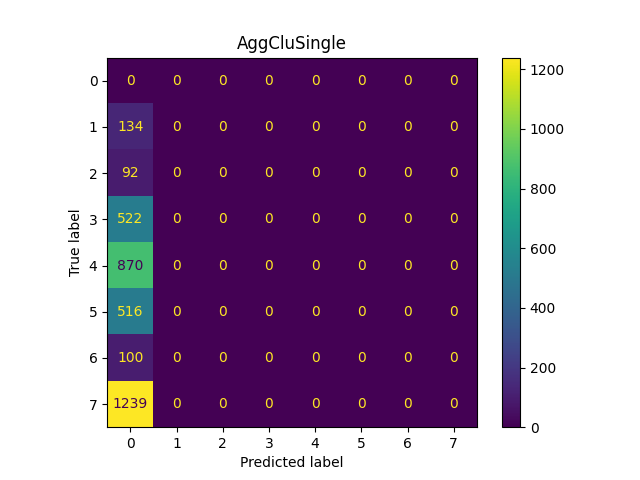
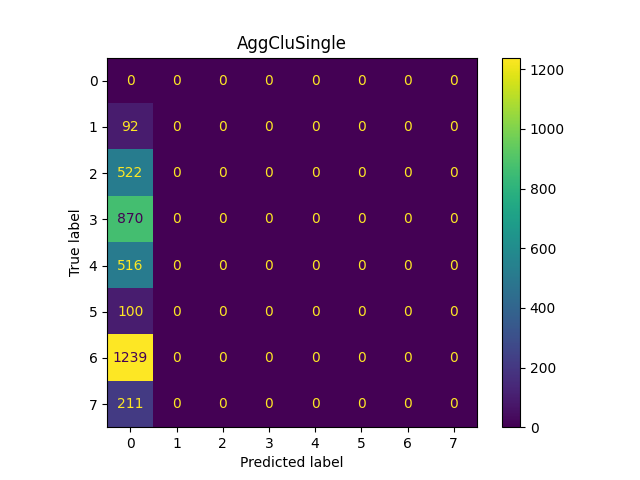
Final confusion matrices png commit

Changed region(s): [[0.1562, 0.3125, 0.25, 0.9062], [0.1875, 0.25, 0.2188, 0.2812]]

diff --git a/visualization_script.py b/visualization_script.py
@@ -9,7 +9,7 @@ classes_labels = ['AGN', 'BL Lac', 'CV', 'QSO', 'SN II', 'SN IIn', 'SN Ia', 'YSO
 methods = ['DBSCAN', 'K-Means', 'MiniBatchKMeans', 'BisectingKMeans', 'AggCluAvarage', 'AggCluWard', 'AggCluSingle']
 
 def label_funct(name):
-    i = 0
+    i = -1
     for j in classes_labels:
         i+=1
         if name == j:
